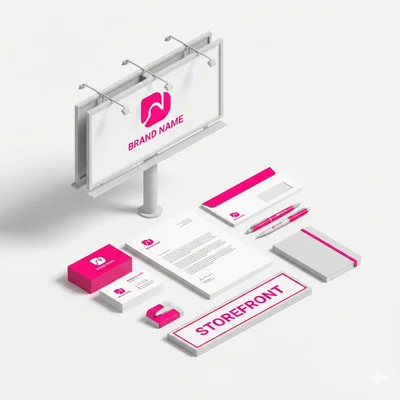
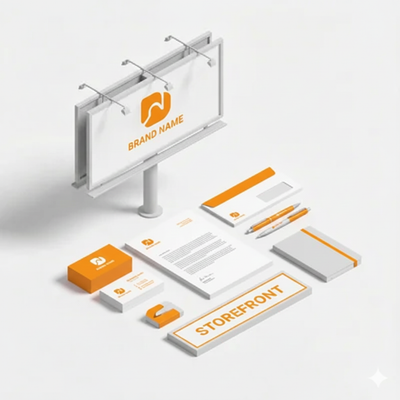
Rebrand: Change color theme from pink to yellow (#FFAE00)
Color Changes:
- Primary: #FF0080 → #FFAE00 (yellow)
- Hover: #E6006F → #E69D00 (darker yellow)
- All rgba(255,0,128,...) → rgba(255,174,0,...)
- Hero gradient: pink-tinted whites → yellow-tinted whites (#FFFBF0, #FFF9E6)
- Highlight backgrounds: pink glow → yellow glow
- SVG icon strokes: pink → yellow (6 floating hero icons)

Text Color Updates:
- Positioning block tagline: white → dark grey (#282828)

Service Images - Yellow Theme:
- Replace all 6 service images with yellow-themed versions
- Social Media: 996KB → 221KB (78% reduction)
- Performance Marketing: 971KB → 245KB (75% reduction)
- Content Marketing: 996KB → 242KB (76% reduction)
- TVCs/DVCs: 847KB → 100KB (88% reduction)
- SEO: 994KB → 119KB (88% reduction)
- Offline Branding: 952KB → 112KB (88% reduction)

Optimization:
- All images resized (800px prominent, 400px secondary)
- WebP format for optimal web performance
- Total image size: 4.7MB → 1MB (79% reduction)

🟡 Generated with Claude Code

diff --git a/index.html b/index.html
@@ -37,8 +37,8 @@
             --black: #000000;
             --light-gray: #F8F8F8;
             --gray: #666666;
-            --pink: #FF0080;
-            --pink-hover: #E6006F;
+            --pink: #FFAE00;
+            --pink-hover: #E69D00;
         }
 
         /* Navigation */
@@ -166,9 +166,9 @@
             background: linear-gradient(
                 135deg,
                 #FFFFFF 0%,
-                #FFF5FA 25%,
+                #FFFBF0 25%,
                 #FFFFFF 50%,
-                #FFF0F7 75%,
+                #FFF9E6 75%,
                 #FFFFFF 100%
             );
             background-size: 400% 400%;
@@ -270,7 +270,7 @@
             content: '';
             position: absolute;
             inset: -8px;
-            background: radial-gradient(circle, rgba(255,0,128,0.3), transparent 70%);
+            background: radial-gradient(circle, rgba(255,174,0,0.3), transparent 70%);
             border-radius: 8px;
             opacity: 1;
             z-index: -1;
@@ -359,7 +359,7 @@
         }
 
         .comparison-visible .brandpulse-item {
-            background: rgba(255, 0, 128, 0.08);
+            background: rgba(255, 174, 0, 0.08);
         }
 
         .comparison-visible .brandpulse-item::before {
@@ -483,7 +483,7 @@
         .btn-primary:hover {
             background: var(--pink-hover);
             transform: translateY(-4px) scale(1.02);
-            box-shadow: 0 12px 40px rgba(255, 0, 128, 0.4);
+            box-shadow: 0 12px 40px rgba(255, 174, 0, 0.4);
         }
 
         .btn-primary:active {
@@ -656,7 +656,7 @@
         .card:hover {
             border-color: var(--pink);
             transform: translateY(-8px);
-            box-shadow: 0 20px 60px rgba(255, 0, 128, 0.12);
+            box-shadow: 0 20px 60px rgba(255, 174, 0, 0.12);
         }
 
         .card-number {
@@ -926,7 +926,7 @@
             width: 100px;
             height: 100px;
             background: var(--light-gray);
-            border: 3px solid rgba(255, 0, 128, 0.3);
+            border: 3px solid rgba(255, 174, 0, 0.3);
             border-radius: 50%;
             z-index: -1;
             transition: all 0.3s ease;
@@ -934,10 +934,10 @@
 
         .process-step:hover .process-number::before {
             background: #FFFFFF;
-            border-color: rgba(255, 0, 128, 0.6);
+            border-color: rgba(255, 174, 0, 0.6);
             border-width: 4px;
             transform: translate(-50%, -50%) scale(1.08);
-            box-shadow: 0 8px 24px rgba(255, 0, 128, 0.15);
+            box-shadow: 0 8px 24px rgba(255, 174, 0, 0.15);
         }
 
         .process-content h3 {
@@ -1452,7 +1452,7 @@
         .form-group textarea:focus {
             outline: none;
             border-color: var(--pink);
-            box-shadow: 0 0 0 3px rgba(255, 0, 128, 0.1);
+            box-shadow: 0 0 0 3px rgba(255, 174, 0, 0.1);
         }
 
         .form-group textarea {
@@ -1647,7 +1647,7 @@
         <div class="floating-icons-canvas" id="heroCanvas">
             <!-- Chart/Analytics -->
             <div class="floating-icon-item" data-speed="0.4">
-                <svg viewBox="0 0 24 24" fill="none" stroke="#FF0080" stroke-width="2">
+                <svg viewBox="0 0 24 24" fill="none" stroke="#FFAE00" stroke-width="2">
                     <path d="M3 3v18h18M7 16l4-4 4 4 6-6"/>
                 </svg>
             </div>
@@ -1661,7 +1661,7 @@
             </div>
             <!-- Lightbulb -->
             <div class="floating-icon-item" data-speed="0.5">
-                <svg viewBox="0 0 24 24" fill="none" stroke="#FF0080" stroke-width="2">
+                <svg viewBox="0 0 24 24" fill="none" stroke="#FFAE00" stroke-width="2">
                     <path d="M9 18h6M10 22h4M15 8a3 3 0 11-6 0 3 3 0 016 0zm-1.5 5h-3c0-1.5 0-3 1.5-3s1.5 1.5 1.5 3z"/>
                     <path d="M12 2v1m6.364 1.636l-.707.707M23 12h-1M4 12H3m3.343-6.657l-.707-.707"/>
                 </svg>
@@ -1675,7 +1675,7 @@
             </div>
             <!-- Chat Bubble -->
             <div class="floating-icon-item" data-speed="0.45">
-                <svg viewBox="0 0 24 24" fill="none" stroke="#FF0080" stroke-width="2">
+                <svg viewBox="0 0 24 24" fill="none" stroke="#FFAE00" stroke-width="2">
                     <path d="M21 15a2 2 0 01-2 2H7l-4 4V5a2 2 0 012-2h14a2 2 0 012 2z"/>
                 </svg>
             </div>
@@ -1687,7 +1687,7 @@
             </div>
             <!-- Email -->
             <div class="floating-icon-item" data-speed="0.3">
-                <svg viewBox="0 0 24 24" fill="none" stroke="#FF0080" stroke-width="2">
+                <svg viewBox="0 0 24 24" fill="none" stroke="#FFAE00" stroke-width="2">
                     <rect x="3" y="5" width="18" height="14" rx="2"/>
                     <path d="M3 7l9 6 9-6"/>
                 </svg>
@@ -1700,7 +1700,7 @@
             </div>
             <!-- Users/Team -->
             <div class="floating-icon-item" data-speed="0.35">
-                <svg viewBox="0 0 24 24" fill="none" stroke="#FF0080" stroke-width="2">
+                <svg viewBox="0 0 24 24" fill="none" stroke="#FFAE00" stroke-width="2">
                     <circle cx="9" cy="7" r="4"/>
                     <path d="M2 21v-2a4 4 0 014-4h6a4 4 0 014 4v2"/>
                     <circle cx="19" cy="7" r="2"/>
@@ -1716,7 +1716,7 @@
             </div>
             <!-- Bell/Notification -->
             <div class="floating-icon-item" data-speed="0.4">
-                <svg viewBox="0 0 24 24" fill="none" stroke="#FF0080" stroke-width="2">
+                <svg viewBox="0 0 24 24" fill="none" stroke="#FFAE00" stroke-width="2">
                     <path d="M18 8A6 6 0 006 8c0 7-3 9-3 9h18s-3-2-3-9M13.73 21a2 2 0 01-3.46 0"/>
                 </svg>
             </div>
@@ -1801,7 +1801,7 @@
 
     <!-- Positioning Block -->
     <section class="differentiator" id="every-single-one-section">
-        <p style="font-size: 56px; font-weight: 600; line-height: 1.2; margin-bottom: 32px; letter-spacing: -1.5px; color: var(--white);">While most agencies use the same playbook, we dissect your business and build a strategy unique to you.</p>
+        <p style="font-size: 56px; font-weight: 600; line-height: 1.2; margin-bottom: 32px; letter-spacing: -1.5px; color: #282828;">While most agencies use the same playbook, we dissect your business and build a strategy unique to you.</p>
         <h2 style="color: var(--white);">Every Brand Gets a Different Strategy.<br><span class="word-reveal" style="animation-delay: 0s">Every</span> <span class="word-reveal" style="animation-delay: 0.5s">Single</span> <span class="word-reveal" style="animation-delay: 1s">One</span>.</h2>
     </section>
 
@@ -2007,21 +2007,21 @@
         <div class="portfolio-grid">
             <!-- Portfolio items - replace with actual images -->
             <div class="portfolio-item">
-                <div style="width: 100%; height: 100%; background: linear-gradient(135deg, #FF0080 0%, #000 100%);"></div>
+                <div style="width: 100%; height: 100%; background: linear-gradient(135deg, #FFAE00 0%, #000 100%);"></div>
                 <div class="portfolio-overlay">
                     <h4>Client Project Name</h4>
                     <p>+300% Engagement Growth</p>
                 </div>
             </div>
             <div class="portfolio-item">
-                <div style="width: 100%; height: 100%; background: linear-gradient(135deg, #000 0%, #FF0080 100%);"></div>
+                <div style="width: 100%; height: 100%; background: linear-gradient(135deg, #000 0%, #FFAE00 100%);"></div>
                 <div class="portfolio-overlay">
                     <h4>Client Project Name</h4>
                     <p>+500% Revenue Increase</p>
                 </div>
             </div>
             <div class="portfolio-item">
-                <div style="width: 100%; height: 100%; background: linear-gradient(135deg, #FF0080 0%, #666 100%);"></div>
+                <div style="width: 100%; height: 100%; background: linear-gradient(135deg, #FFAE00 0%, #666 100%);"></div>
                 <div class="portfolio-overlay">
                     <h4>Client Project Name</h4>
                     <p>2M+ Impressions</p>
@@ -2042,7 +2042,7 @@
                 </div>
             </div>
             <div class="portfolio-item">
-                <div style="width: 100%; height: 100%; background: linear-gradient(135deg, #FF0080 50%, #000 100%);"></div>
+                <div style="width: 100%; height: 100%; background: linear-gradient(135deg, #FFAE00 50%, #000 100%);"></div>
                 <div class="portfolio-overlay">
                     <h4>Client Project Name</h4>
                     <p>Market Leader Position</p>
